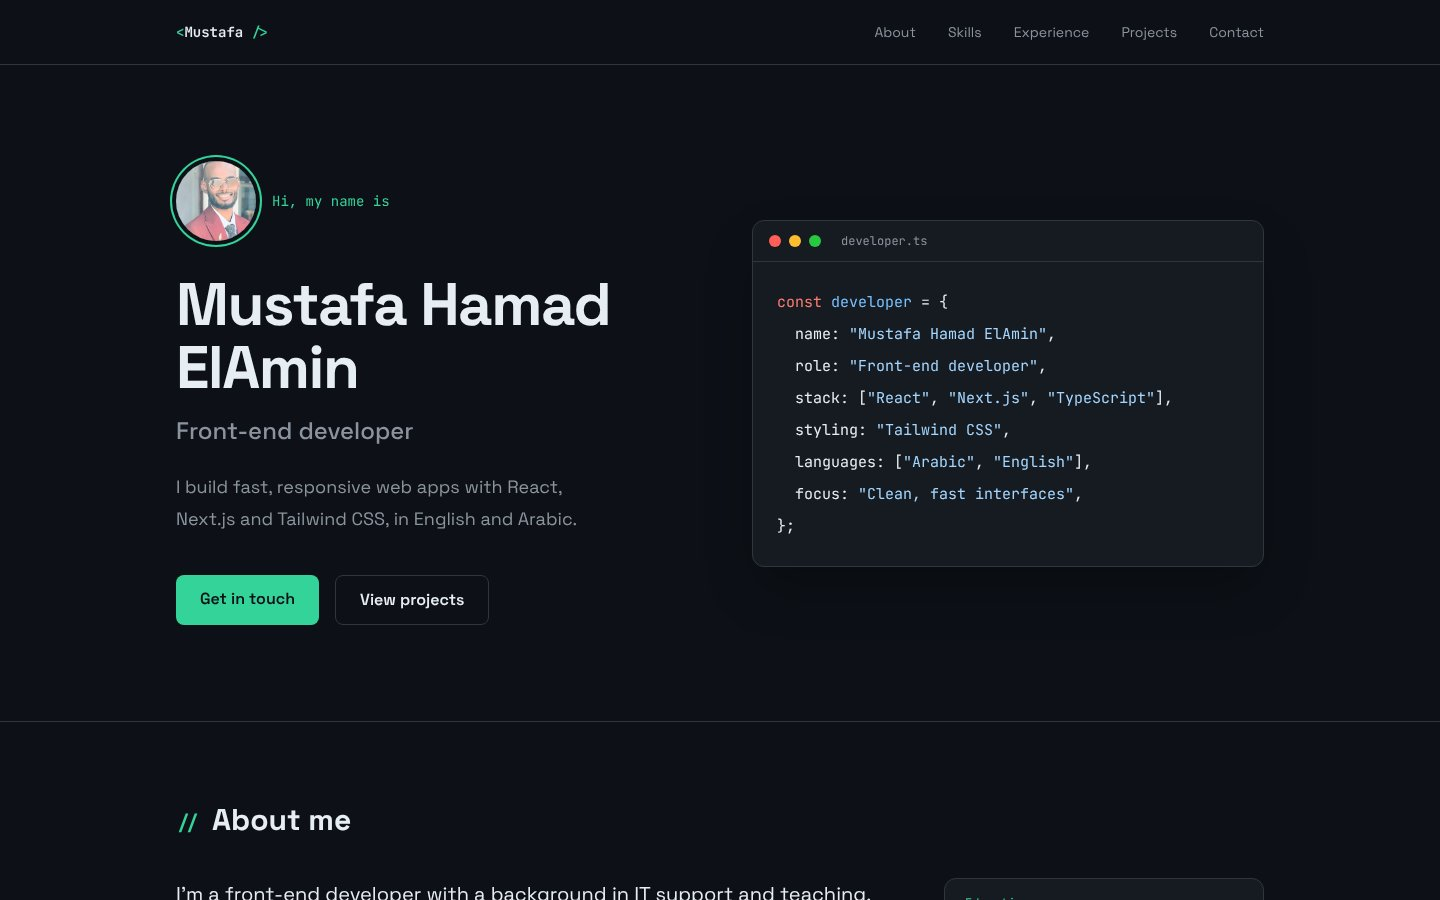
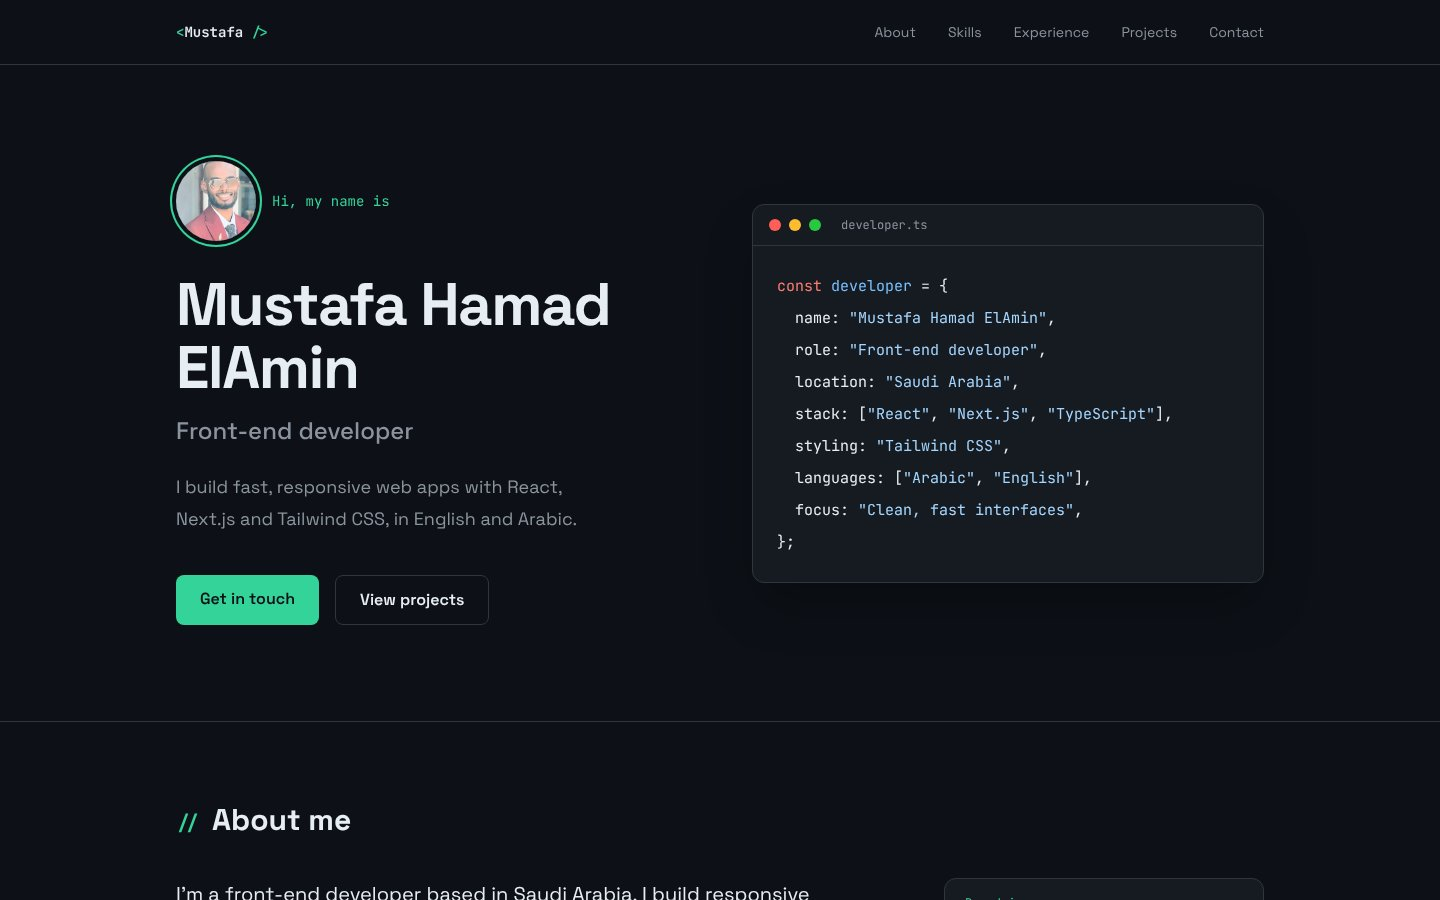
Add current freelance work, location and nationality
- Experience: add the freelance and self-study period from 2023 to now
- About me: say where I am based and what I have focused on since 2023
- Code window: add location

Claude-Session: https://claude.ai/code/session_01TkRPnwSefusrgepjoER5a5

Changed region(s): [[0.5312, 0.3111, 0.8125, 0.5911], [0.2812, 0.9644, 0.625, 1.0], [0.5312, 0.2178, 0.625, 0.28]]

diff --git a/app/components/About.tsx b/app/components/About.tsx
@@ -1,6 +1,8 @@
 import Section from './Section'
 
 const facts = [
+  { label: 'Based in', value: 'Saudi Arabia' },
+  { label: 'Nationality', value: 'Sudanese' },
   { label: 'Education', value: 'Bachelor of Information Technology, 2022' },
   { label: 'Languages', value: 'Arabic (native), English' },
   { label: 'Focus', value: 'React, Next.js, Tailwind CSS' },
@@ -12,17 +14,20 @@ export default function About() {
       <div className="grid gap-10 lg:grid-cols-3 lg:gap-16">
         <div className="space-y-5 text-lg leading-8 text-mute lg:col-span-2">
           <p className="text-xl leading-8 text-fg">
-            I&apos;m a front-end developer with a background in IT support and teaching. I build
-            responsive websites and web apps with React, Next.js and Tailwind CSS.
+            I&apos;m a front-end developer based in Saudi Arabia. I build responsive websites and
+            web apps with React, Next.js and Tailwind CSS.
           </p>
           <p>
-            Before focusing on front-end work, I was a teaching assistant and a technical support
-            assistant at Cambridge International College Sudan. I helped students find the bugs
-            in their code and kept the department&apos;s computers and software running.
+            I started in IT. After my degree I worked as a teaching assistant and a technical
+            support assistant at Cambridge International College Sudan, where I helped students
+            find the bugs in their code and kept the department&apos;s computers and software
+            running.
           </p>
           <p>
-            That work taught me to explain technical things clearly and to track a problem down
-            patiently. I bring both to the interfaces I build.
+            Since 2023 I&apos;ve focused on front-end development: taking on freelance projects
+            and learning through courses along the way. Teaching and support work taught me to
+            explain technical things clearly and to track a problem down patiently, and I bring
+            both to the interfaces I build.
           </p>
         </div>
 

diff --git a/app/components/Experience.tsx b/app/components/Experience.tsx
@@ -2,6 +2,15 @@ import Section from './Section'
 
 const jobs = [
   {
+    role: 'Freelance Front-End Developer',
+    place: 'Self-employed, Saudi Arabia',
+    period: '2023 – Present',
+    points: [
+      'Take on freelance web projects, building responsive websites and web apps with React, Next.js and Tailwind CSS.',
+      'Keep learning through courses and personal projects, most recently TypeScript and Next.js.',
+    ],
+  },
+  {
     role: 'Teaching Assistant, IT Department',
     place: 'Cambridge International College Sudan, Khartoum',
     period: '2022 – 2023',

diff --git a/app/components/Hero.tsx b/app/components/Hero.tsx
@@ -4,6 +4,7 @@ const email = 'Mu21stafa23@gmail.com'
 const profile: { key: string; value: string | string[] }[] = [
   { key: 'name', value: 'Mustafa Hamad ElAmin' },
   { key: 'role', value: 'Front-end developer' },
+  { key: 'location', value: 'Saudi Arabia' },
   { key: 'stack', value: ['React', 'Next.js', 'TypeScript'] },
   { key: 'styling', value: 'Tailwind CSS' },
   { key: 'languages', value: ['Arabic', 'English'] },
